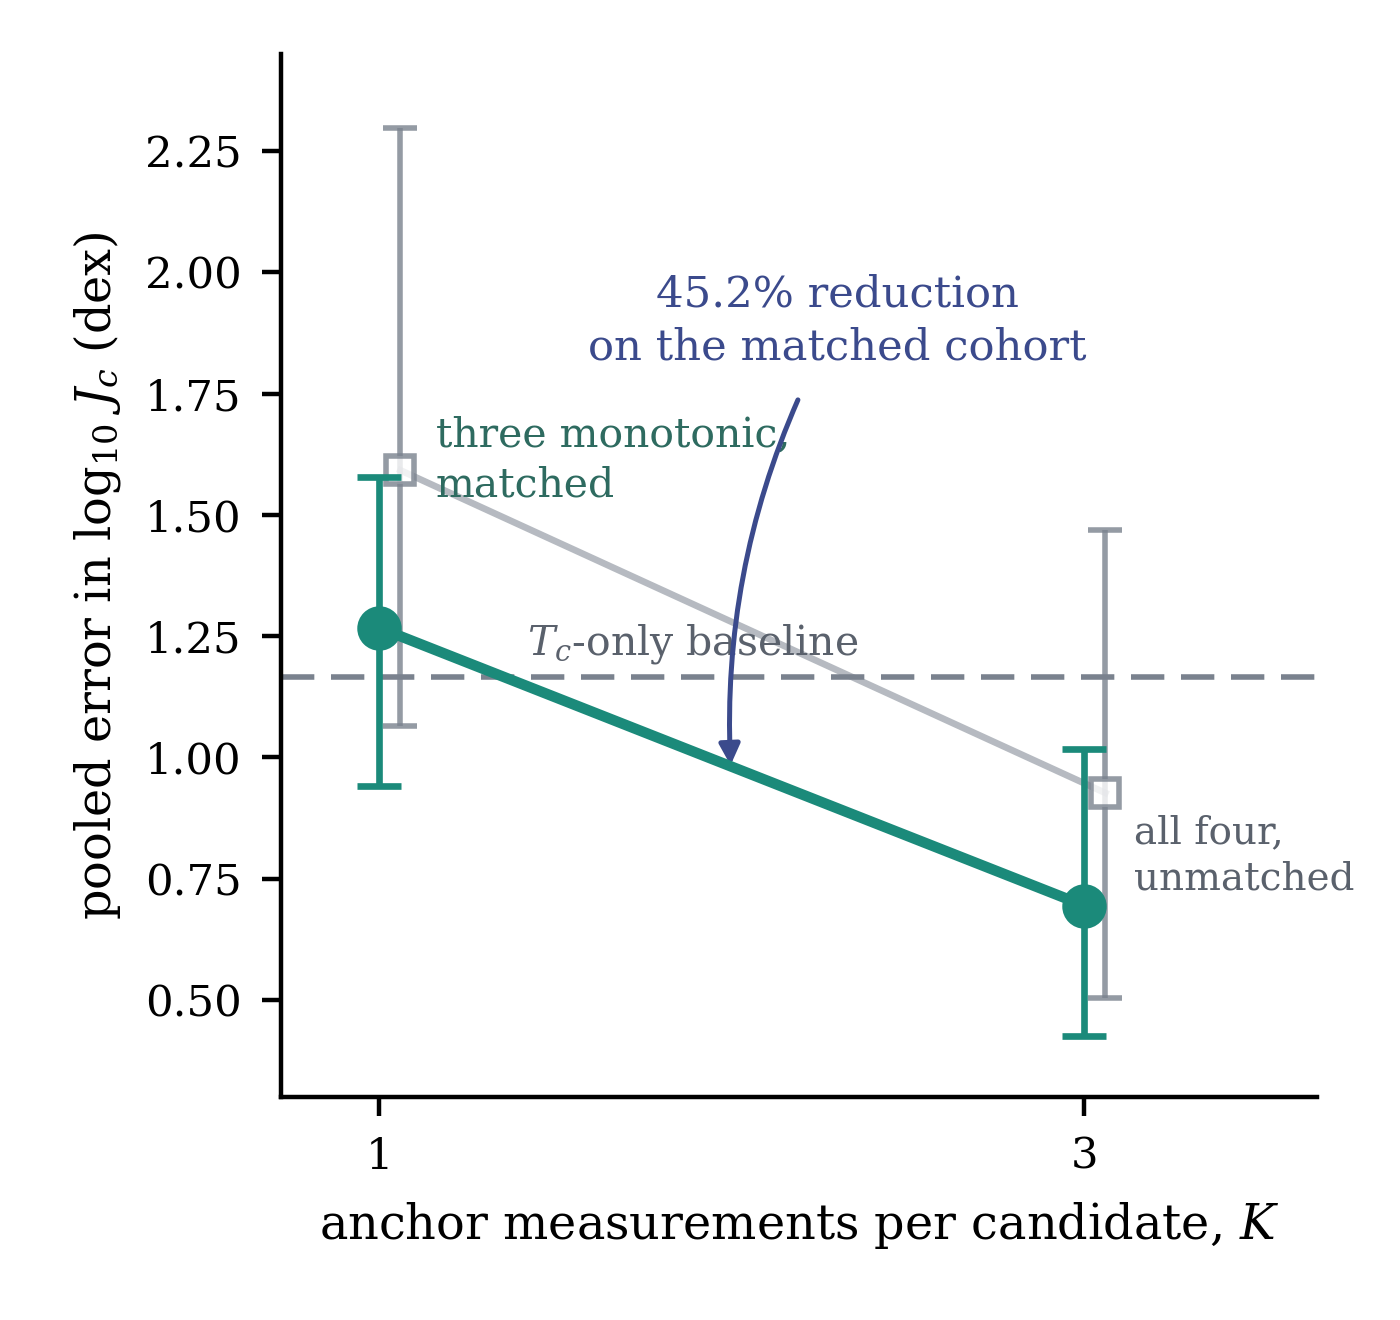
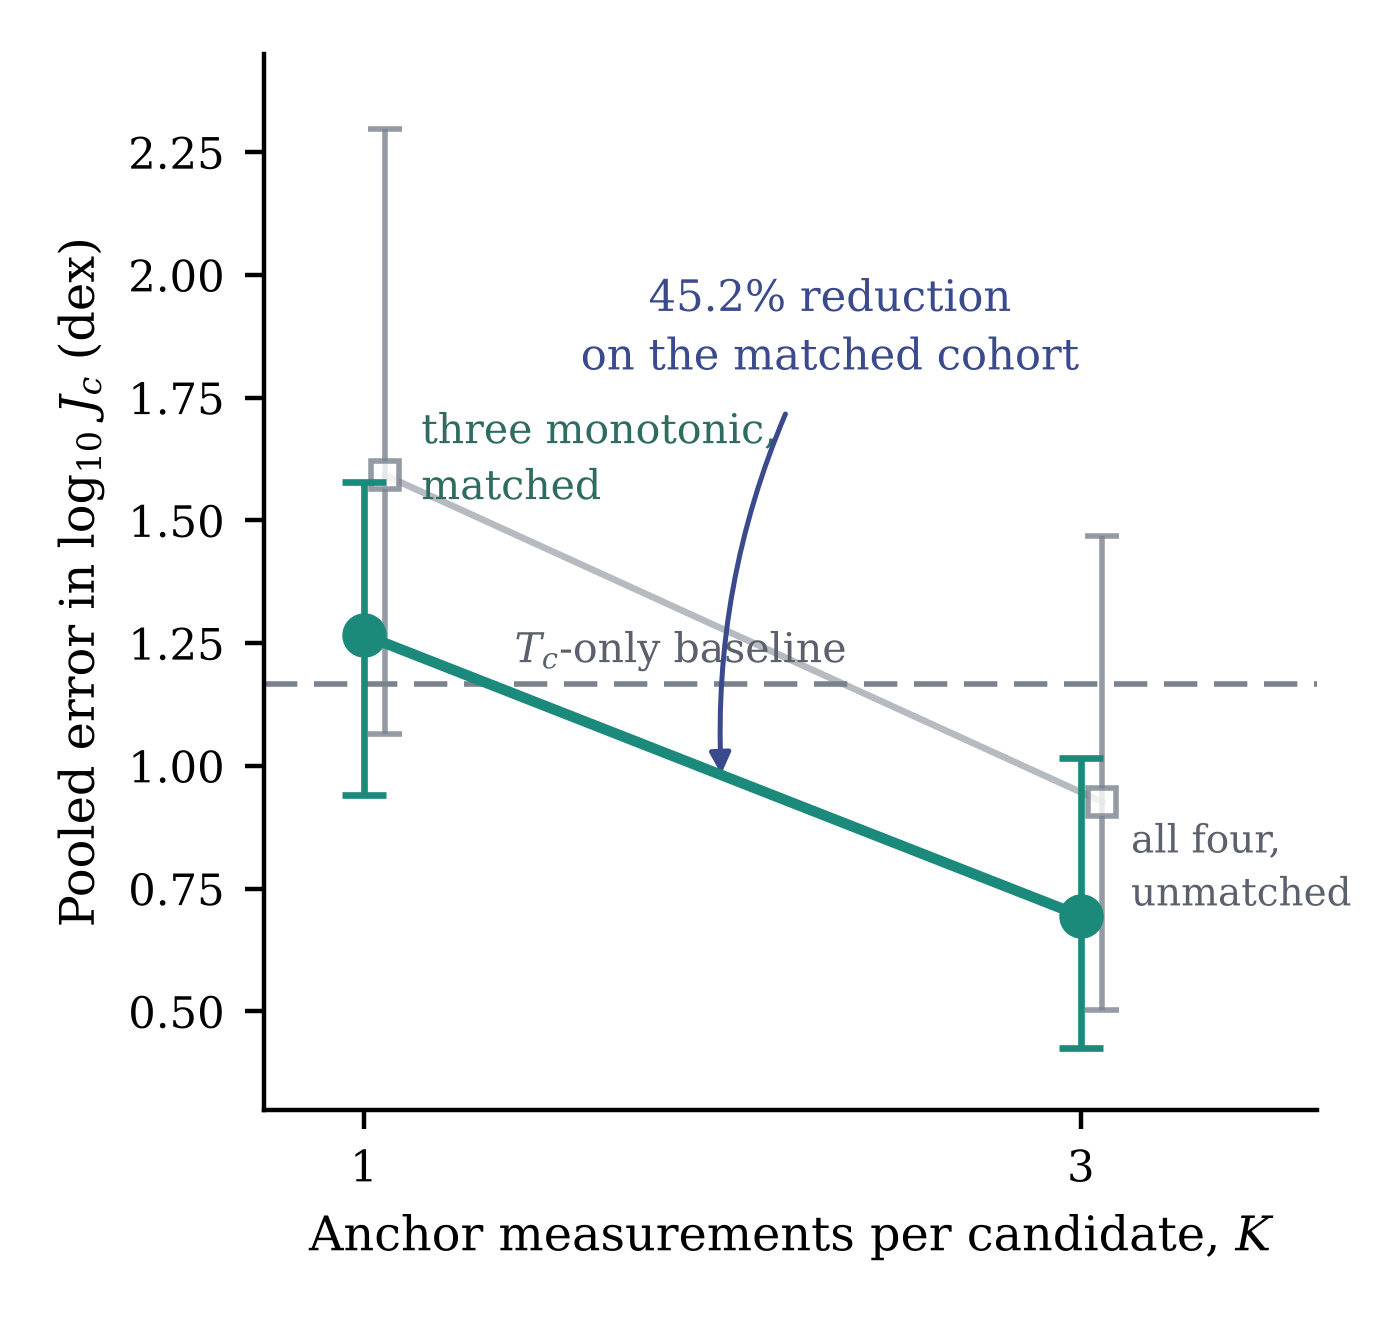
Apply Hossain's formatting items to the final60 set
Figure 4 takes an initial capital on both axis labels and is drawn at 4.60
inches rather than 6.25, since it carries less than the other four and was
the largest thing in the paper. The regenerated PNG is committed, so the
document and figures/figure_4_anchor_count.png stay identical and
check_figures.py passes on it.

The manuscript tables trade the two-rule journal style for a single rule on
every edge and between every cell, which the Supplemental Material tables
already used. Table text drops one point throughout: 12 to 11 in the
manuscript, 10.5 to 9.5 where the supplement set it explicitly.

Paragraph spacing is normalised to exactly one blank line, section headings
included, outside the front matter and the reference list.

Claude-Session: https://claude.ai/code/session_01PhhbXYwhG93hipBp6Dk7Hu

Changed region(s): [[0.0307, 0.0311, 0.9829, 0.9629], [0.3993, 0.1864, 0.7679, 0.2795]]

diff --git a/analysis/apply_hossain_format.py b/analysis/apply_hossain_format.py
@@ -1,0 +1,173 @@
+#!/usr/bin/env python3
+"""
+apply_hossain_format.py
+
+The formatting items from Hossain's review of the final60 set.
+
+  1. Figure 4 is drawn smaller. It carries less than the others and was the
+     largest thing in the paper at 6.25 by 5.89 inches. It goes to 4.60 inches
+     wide, keeping its own aspect ratio, which check_figures.py asserts.
+  2. Figure 4's axis labels take an initial capital. That is done in
+     analysis/manuscript_figure_4.py, and this pass embeds the regenerated
+     PNG so the document and figures/figure_4_anchor_count.png stay identical.
+  3. The manuscript tables get visible borders. They carried the two-rule
+     journal style, a double rule above and below and nothing else. They now
+     carry a single rule on every edge and between every cell, which is what
+     the Supplemental Material tables already use.
+  4. Table text drops one point. The manuscript tables inherit 12 pt and go to
+     11; the Supplemental Material rows already set at 10.5 go to 9.5.
+
+Sizes are set on the run rather than the style, because the tables mix
+inherited and explicit sizes and only an explicit value on every run makes the
+result the same in both.
+"""
+
+import copy
+import sys
+
+import docx
+from docx.oxml import OxmlElement
+from docx.oxml.ns import qn
+from docx.shared import Inches, Pt
+
+FIG4 = "figures/figure_4_anchor_count.png"
+FIG4_WIDTH_IN = 4.60
+EDGES = ("top", "left", "bottom", "right", "insideH", "insideV")
+
+
+def aspect(path):
+    from PIL import Image
+    with Image.open(path) as im:
+        return im.size[0] / im.size[1]
+
+
+def resize_and_replace_figure_4(doc):
+    """Swap in the regenerated PNG and set the display extent."""
+    target = open(FIG4, "rb").read()
+    ratio = aspect(FIG4)
+    width = Inches(FIG4_WIDTH_IN)
+    height = Inches(FIG4_WIDTH_IN / ratio)
+    hit = None
+    for shape in doc.inline_shapes:
+        rid = shape._inline.graphic.graphicData.pic.blipFill.blip.embed
+        part = doc.part.related_parts[rid]
+        # Figure 4 is the one whose stored image is the anchor-count figure,
+        # identified by its aspect ratio among the five. Checked below.
+        if abs(shape.width / shape.height - ratio) < 0.01 and shape.width > 0:
+            if hit is not None:
+                raise ValueError("two shapes share Figure 4's aspect ratio")
+            hit = (shape, part)
+    if hit is None:
+        raise ValueError("Figure 4 not found by aspect ratio")
+    shape, part = hit
+    part._blob = target
+    part.blob  # touch, so a stale cached blob would raise here
+    shape.width, shape.height = width, height
+    return shape
+
+
+def border_element(sz=4):
+    borders = OxmlElement("w:tblBorders")
+    for edge in EDGES:
+        e = OxmlElement("w:%s" % edge)
+        e.set(qn("w:val"), "single")
+        e.set(qn("w:sz"), str(sz))
+        e.set(qn("w:space"), "0")
+        e.set(qn("w:color"), "000000")
+        borders.append(e)
+    return borders
+
+
+def give_borders(table):
+    pr = table._tbl.find(qn("w:tblPr"))
+    if pr is None:
+        pr = OxmlElement("w:tblPr")
+        table._tbl.insert(0, pr)
+    old = pr.find(qn("w:tblBorders"))
+    if old is not None:
+        pr.remove(old)
+    pr.append(border_element())
+
+
+def shrink_table_text(table, inherited):
+    """One point off every run. A run with no size of its own inherits the
+    document's 12 pt, so it is written out at `inherited` - 1."""
+    changed = 0
+    for row in table.rows:
+        for cell in row.cells:
+            for paragraph in cell.paragraphs:
+                for run in paragraph.runs:
+                    now = run.font.size.pt if run.font.size else inherited
+                    run.font.size = Pt(now - 1)
+                    changed += 1
+    return changed
+
+
+def manuscript(path):
+    doc = docx.Document(path)
+    before = [p.text for p in doc.paragraphs]
+    shape = resize_and_replace_figure_4(doc)
+    runs = 0
+    for table in doc.tables:
+        give_borders(table)
+        runs += shrink_table_text(table, 12.0)
+    doc.save(path)
+    assert [p.text for p in docx.Document(path).paragraphs] == before
+    return shape.width.inches, shape.height.inches, len(doc.tables), runs
+
+
+def supplement(path):
+    doc = docx.Document(path)
+    before = [p.text for p in doc.paragraphs]
+    runs = 0
+    for table in doc.tables:
+        give_borders(table)
+        runs += shrink_table_text(table, 12.0)
+    doc.save(path)
+    assert [p.text for p in docx.Document(path).paragraphs] == before
+    return len(doc.tables), runs
+
+
+def verify(path, expect_figure):
+    doc = docx.Document(path)
+    for table in doc.tables:
+        pr = table._tbl.find(qn("w:tblPr"))
+        borders = pr.find(qn("w:tblBorders"))
+        assert borders is not None, "a table has no borders"
+        got = {
+            b.tag.split("}")[1]: b.get(qn("w:val")) for b in borders
+        }
+        assert set(got) == set(EDGES), got
+        assert set(got.values()) == {"single"}, got
+        for row in table.rows:
+            for cell in row.cells:
+                for paragraph in cell.paragraphs:
+                    for run in paragraph.runs:
+                        assert run.font.size is not None, "a run kept no size"
+                        assert run.font.size.pt <= 11.0, run.font.size.pt
+    if expect_figure:
+        ratio = aspect(FIG4)
+        found = [
+            s for s in doc.inline_shapes
+            if abs(s.width / s.height - ratio) < 0.01
+        ]
+        assert len(found) == 1, len(found)
+        got = found[0].width.inches
+        assert abs(got - FIG4_WIDTH_IN) < 0.01, got
+        rid = found[0]._inline.graphic.graphicData.pic.blipFill.blip.embed
+        assert doc.part.related_parts[rid].blob == open(FIG4, "rb").read()
+
+
+if __name__ == "__main__":
+    for path in ("out_final60/HT10016_revised_final60.docx",
+                 "out_final60/HT10016_revised_final60_HIGHLIGHTED.docx"):
+        w, h, n, runs = manuscript(path)
+        verify(path, True)
+        print("%-46s Fig. 4 %.2f x %.2f in, %d tables bordered, %d runs resized"
+              % (path.split("/")[-1], w, h, n, runs))
+    for path in ("out_final60/SUPPLEMENTAL_MATERIAL_revised_final60.docx",
+                 "out_final60/SUPPLEMENTAL_MATERIAL_revised_final60_HIGHLIGHTED.docx"):
+        n, runs = supplement(path)
+        verify(path, False)
+        print("%-46s %d tables bordered, %d runs resized"
+              % (path.split("/")[-1], n, runs))

diff --git a/analysis/apply_paragraph_spacing.py b/analysis/apply_paragraph_spacing.py
@@ -1,0 +1,158 @@
+#!/usr/bin/env python3
+"""
+apply_paragraph_spacing.py
+
+One empty paragraph between every pair of adjacent paragraphs, Hossain's
+sixth formatting item, including across a section heading.
+
+Two parts of each document are left alone, because a blank line there is not
+spacing but damage:
+
+  front matter   the title, the author line, the five affiliations and the
+                 contact line are one block, not eight paragraphs of prose.
+                 Insertion starts at the first paragraph after it.
+  references     45 entries that no journal sets with a blank line between
+                 them. Insertion stops at the REFERENCES heading.
+
+The two letters are not touched. Their missing blanks are in the address and
+signature blocks, where the same argument applies to the whole document.
+
+A table counts as a separator: a paragraph that follows one already has
+something between it and the paragraph before, so nothing is inserted there.
+The inserted paragraph takes the style of the paragraph it precedes, so it
+occupies one line at that paragraph's size rather than the document default.
+
+"Exactly one" cuts both ways, so a run of two or more blank paragraphs inside
+the active range is collapsed to one. The Supplemental Material carried
+several. Both halves are idempotent, so the pass can be run again safely.
+"""
+
+import sys
+
+import docx
+from docx.oxml.ns import qn
+from docx.oxml import OxmlElement
+
+P = qn("w:p")
+
+
+def text_of(p):
+    return "".join(t.text or "" for t in p.iter(qn("w:t"))).strip()
+
+
+def insert_blanks(path, start_after, stop_at):
+    doc = docx.Document(path)
+    body = doc.element.body
+    children = list(body)
+    started = start_after is None
+    previous = None
+    inserted = 0
+    for node in children:
+        if node.tag != P:
+            previous = None          # a table separates two paragraphs
+            continue
+        text = text_of(node)
+        if not started:
+            if text.startswith(start_after):
+                started = True
+            previous = node if text else None
+            continue
+        if stop_at and text.upper().startswith(stop_at):
+            break
+        if text and previous is not None:
+            blank = OxmlElement("w:p")
+            pPr = node.find(qn("w:pPr"))
+            if pPr is not None:
+                blank.append(pPr.__copy__())
+            node.addprevious(blank)
+            inserted += 1
+        previous = node if text else None
+    removed = collapse(body, start_after, stop_at)
+    doc.save(path)
+    return inserted, removed
+
+
+def collapse(body, start_after, stop_at):
+    """Leave at most one blank paragraph in any run of them."""
+    started = start_after is None
+    run = []
+    removed = 0
+    for node in list(body):
+        if node.tag != P:
+            run = []
+            continue
+        text = text_of(node)
+        if not started:
+            if text.startswith(start_after):
+                started = True
+            continue
+        if stop_at and text.upper().startswith(stop_at):
+            break
+        if text:
+            run = []
+            continue
+        run.append(node)
+        if len(run) > 1:
+            body.remove(node)
+            run.pop()
+            removed += 1
+    return removed
+
+
+def verify(path, start_after, stop_at):
+    doc = docx.Document(path)
+    body = doc.element.body
+    started = start_after is None
+    previous = None
+    bad = []
+    for node in body:
+        if node.tag != P:
+            previous = None
+            continue
+        text = text_of(node)
+        if not started:
+            if text.startswith(start_after):
+                started = True
+            previous = node if text else None
+            continue
+        if stop_at and text.upper().startswith(stop_at):
+            break
+        if text and previous is not None:
+            bad.append(text[:60])
+        if text and previous is None:
+            previous = node
+        elif not text:
+            previous = None
+    assert not bad, bad
+    # and never two blanks in a row
+    runs = 0
+    for node in body:
+        if node.tag != P:
+            runs = 0
+            continue
+        if text_of(node):
+            runs = 0
+        else:
+            runs += 1
+            assert runs < 2, "two blank paragraphs in a row"
+
+
+JOBS = [
+    ("out_final60/HT10016_revised_final60.docx", "ABSTRACT", "REFERENCES"),
+    ("out_final60/HT10016_revised_final60_HIGHLIGHTED.docx",
+     "ABSTRACT", "REFERENCES"),
+    ("out_final60/SUPPLEMENTAL_MATERIAL_revised_final60.docx", "1.", None),
+    ("out_final60/SUPPLEMENTAL_MATERIAL_revised_final60_HIGHLIGHTED.docx",
+     "1.", None),
+]
+
+
+if __name__ == "__main__":
+    for path, start, stop in JOBS:
+        before = [p.text for p in docx.Document(path).paragraphs if p.text.strip()]
+        n, removed = insert_blanks(path, start, stop)
+        after = [p.text for p in docx.Document(path).paragraphs if p.text.strip()]
+        assert before == after, "the text changed"
+        verify(path, start, stop)
+        print("%-54s %3d inserted, %d extra blank(s) removed"
+              % (path.split("/")[-1], n, removed))

diff --git a/analysis/manuscript_figure_4.py b/analysis/manuscript_figure_4.py
@@ -96,12 +96,12 @@ ax.annotate("%.1f%% reduction\non the matched cohort" % red,
                             connectionstyle="arc3,rad=0.15"))
 
 ax.set_xticks([1,3]); ax.set_xlim(0.72,3.66)
-ax.set_xlabel("anchor measurements per candidate, $K$", fontsize=8.6)
+ax.set_xlabel("Anchor measurements per candidate, $K$", fontsize=8.6)
 # The quantity is |predicted_log_Jc - actual_log_Jc| from
 # analysis/external_anchor_count.py, which is dex. An earlier version of this
 # label called it an exponent error, which is the convention Sec. II.A sets
 # out and which this figure then contradicted.
-ax.set_ylabel("pooled error in log$_{10}$ $J_c$ (dex)", fontsize=8.6)
+ax.set_ylabel("Pooled error in log$_{10}$ $J_c$ (dex)", fontsize=8.6)
 ax.set_ylim(0.30, 2.45)
 ax.tick_params(labelsize=7.8)
 for sp in ("top","right"): ax.spines[sp].set_visible(False)
